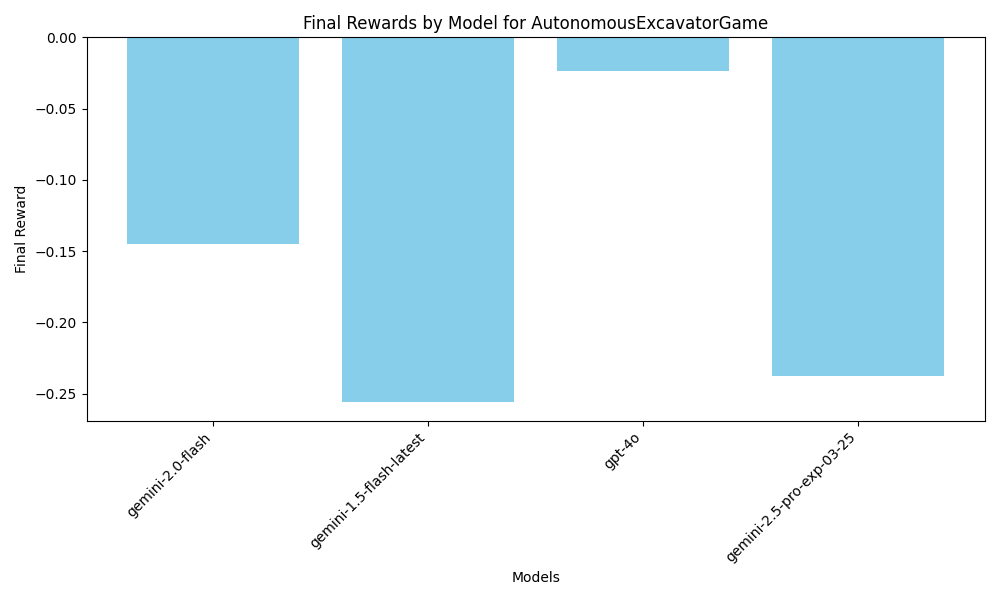
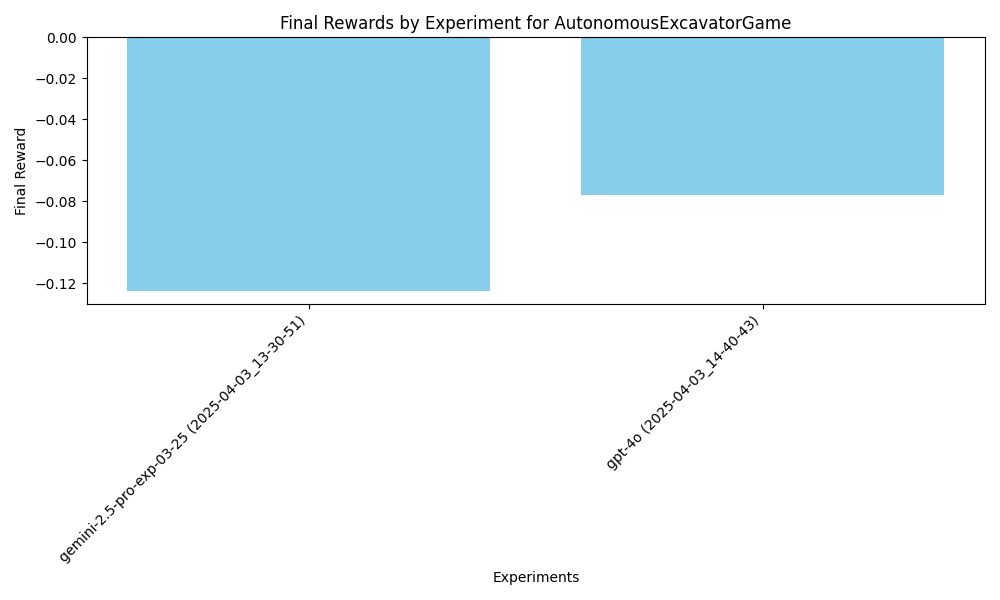
Improved analysis

diff --git a/analyze_results.py b/analyze_results.py
@@ -37,7 +37,6 @@ def parse_args():
 def find_experiment_dirs(input_dir, models=None):
     """Find experiment directories for the AutonomousExcavatorGame."""
     experiment_dirs = []
-    game = "AutonomousExcavatorGame"  # Hardcoded game name
     
     # List all directories in the input directory
     for item in os.listdir(input_dir):
@@ -45,11 +44,13 @@ def find_experiment_dirs(input_dir, models=None):
         if not os.path.isdir(item_path):
             continue
             
-        # Parse the directory name to extract the model
-        if not item.startswith(game + "_"):
-            continue
+        # Parse the directory name to extract the model name
+        # Assuming the format is "model_name_YYYY-MM-DD_HH-MM-SS"
+        parts = item.rsplit("_", 2)  # Split from the right to separate timestamp
+        if len(parts) < 3:
+            continue  # Skip directories that don't match the expected format
         
-        model = item[len(game) + 1:]  # Extract model name after "AutonomousExcavatorGame_"
+        model = "_".join(parts[:-2])  # Extract the model name (everything before the timestamp)
         
         # Filter by model if specified
         if models and model not in models:
@@ -58,7 +59,6 @@ def find_experiment_dirs(input_dir, models=None):
         experiment_dirs.append((item_path, model))
     
     return experiment_dirs
-
 def load_results(experiment_dir):
     """Load results from an experiment directory."""
     results = {}
@@ -85,26 +85,32 @@ def load_results(experiment_dir):
 
 def analyze_results(experiment_dirs):
     """Analyze results from all experiment directories."""
-    analysis = defaultdict(dict)
+    analysis = defaultdict(list)  # Store a list of experiments for each model
     
     for exp_dir, model in experiment_dirs:
-        logger.info(f"Analyzing results for model {model}")
+        logger.info(f"Analyzing results for model {model} in directory {exp_dir}")
         results = load_results(exp_dir)
         
         if not results:
             logger.warning(f"No results found in {exp_dir}")
             continue
-            
+        
+        # Extract timestamp from the directory name
+        timestamp = "_".join(exp_dir.split("_")[-2:])  # Extract both date and time
+        
         # Calculate metrics
         if 'cumulative_rewards' in results and results['cumulative_rewards']:
             final_reward = results['cumulative_rewards'][-1]
             max_reward = max(results['cumulative_rewards'])
             
-            analysis[model]['final_reward'] = final_reward
-            analysis[model]['max_reward'] = max_reward
-            analysis[model]['rewards'] = results['cumulative_rewards']
+            analysis[model].append({
+                'final_reward': final_reward,
+                'max_reward': max_reward,
+                'rewards': results['cumulative_rewards'],
+                'timestamp': timestamp
+            })
             
-            logger.info(f"Model {model}: Final reward = {final_reward}, Max reward = {max_reward}")
+            logger.info(f"Model {model} ({timestamp}): Final reward = {final_reward}, Max reward = {max_reward}")
     
     return analysis
 
@@ -112,12 +118,13 @@ def plot_results(analysis, output_dir):
     """Generate plots from the analysis results."""
     os.makedirs(output_dir, exist_ok=True)
     
-    # Plot reward curves for each model
+    # Plot reward curves for each experiment
     plt.figure(figsize=(12, 6))
-    for model, data in analysis.items():
-        if 'rewards' in data:
-            rewards = data['rewards']
-            plt.plot(rewards, label=model)
+    for model, experiments in analysis.items():
+        for exp in experiments:
+            rewards = exp['rewards']
+            timestamp = exp['timestamp']
+            plt.plot(rewards, label=f"{model} ({timestamp})")
     
     plt.title('Cumulative Rewards for AutonomousExcavatorGame')
     plt.xlabel('Steps')
@@ -127,15 +134,19 @@ def plot_results(analysis, output_dir):
     plt.savefig(os.path.join(output_dir, 'cumulative_rewards.png'))
     plt.close()
     
-    # Create a bar chart of final rewards for all models
-    models = list(analysis.keys())
-    final_rewards = [analysis[model]['final_reward'] for model in models]
+    # Create a bar chart of final rewards for all experiments
+    models = []
+    final_rewards = []
+    for model, experiments in analysis.items():
+        for exp in experiments:
+            models.append(f"{model} ({exp['timestamp']})")
+            final_rewards.append(exp['final_reward'])
     
     plt.figure(figsize=(10, 6))
     plt.bar(models, final_rewards, color='skyblue')
-    plt.xlabel('Models')
+    plt.xlabel('Experiments')
     plt.ylabel('Final Reward')
-    plt.title('Final Rewards by Model for AutonomousExcavatorGame')
+    plt.title('Final Rewards by Experiment for AutonomousExcavatorGame')
     plt.xticks(rotation=45, ha='right')
     plt.tight_layout()
     plt.savefig(os.path.join(output_dir, 'final_rewards.png'))

diff --git a/terra/viz/main_manual_llm.py b/terra/viz/main_manual_llm.py
@@ -7,6 +7,8 @@ import os
 from tqdm import tqdm
 import csv
 import numpy as np
+import datetime
+
 
 
 from pygame.locals import (
@@ -33,7 +35,7 @@ def run_experiment(model_name, model_key, num_timesteps):
         None
     """
     # Load the JSON configuration file
-    with open("envs10.json", "r") as file:
+    with open("envs11.json", "r") as file:
         game_instructions = json.load(file)
 
     # Define the environment name for the Autonomous Excavator Game
@@ -216,9 +218,16 @@ def run_experiment(model_name, model_key, num_timesteps):
 
     print(f"Rollout complete. Total reward: {rewards}")
 
-    output_dir = os.path.join("experiments", f"AutonomousExcavatorGame_{model_name}")   
+
+    # Generate a timestamp
+    current_time = datetime.datetime.now().strftime("%Y-%m-%d_%H-%M-%S")
+
+    # Create a unique output directory for the model and timestamp
+    output_dir = os.path.join("experiments", f"{model_name}_{current_time}")
     os.makedirs(output_dir, exist_ok=True)
-    output_file = os.path.join(output_dir, f"actions_rewards.csv")
+
+    # Save actions and rewards to a CSV file
+    output_file = os.path.join(output_dir, "actions_rewards.csv")
     with open(output_file, "w") as f:
         writer = csv.writer(f)
         writer.writerow(["actions", "cumulative_rewards"])
@@ -227,6 +236,7 @@ def run_experiment(model_name, model_key, num_timesteps):
 
     print(f"Results saved to {output_file}")
 
-    video_path = os.path.join(output_dir, f"gameplay.mp4")
+    # Save the gameplay video
+    video_path = os.path.join(output_dir, "gameplay.mp4")
     save_video(frames, video_path)
 
